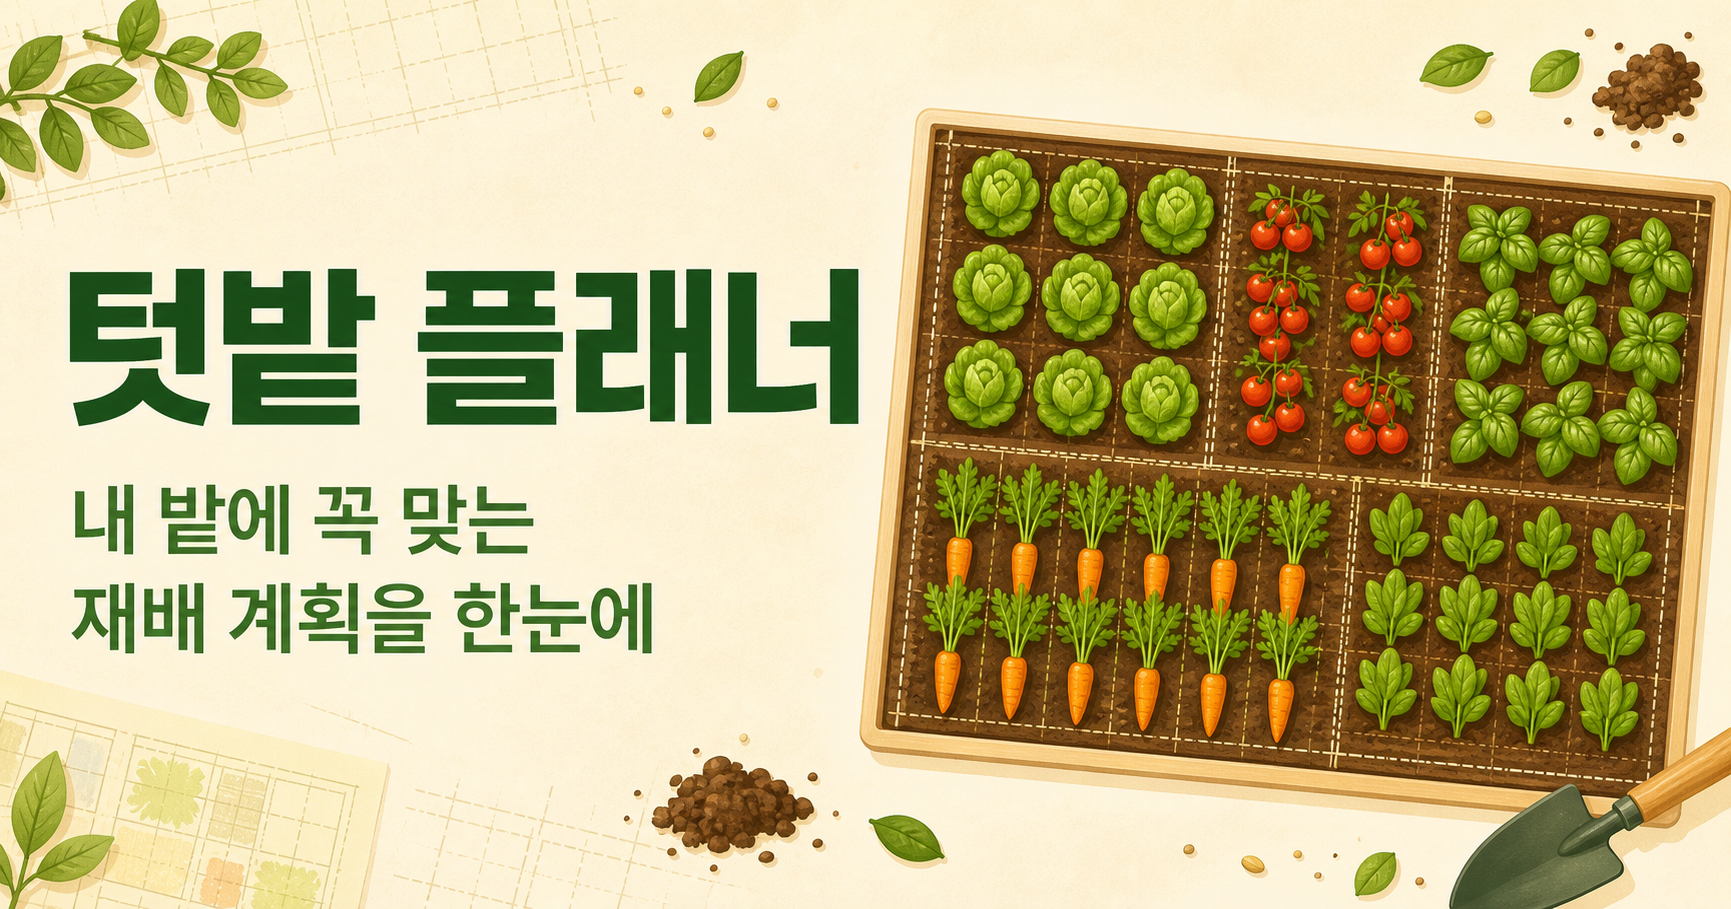
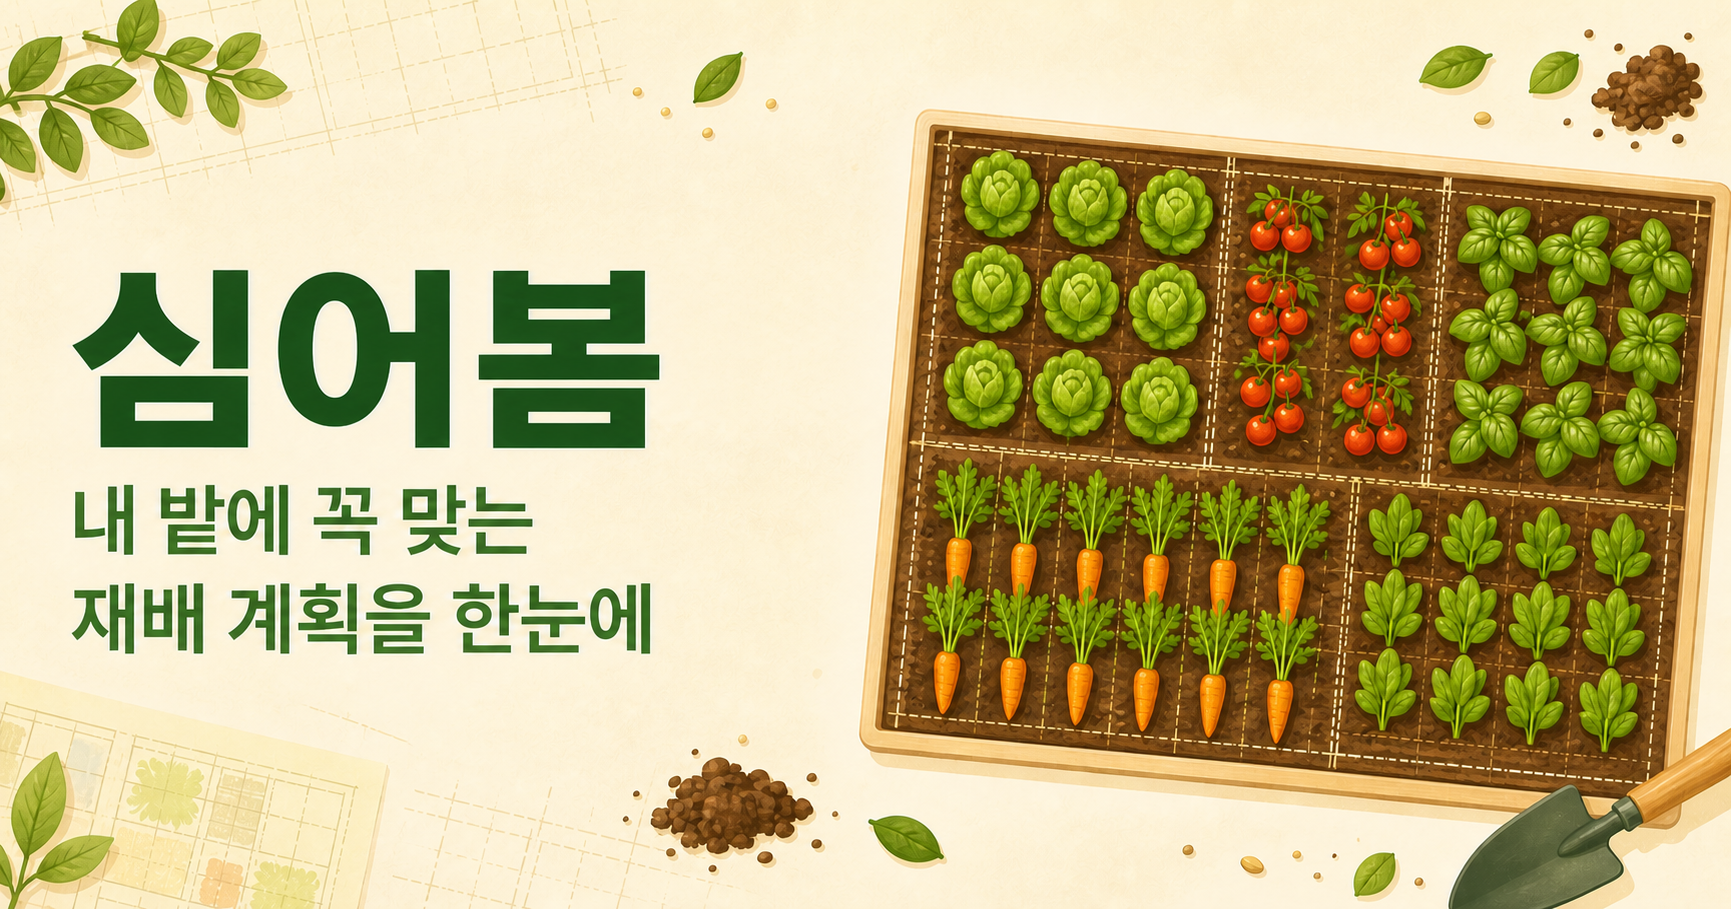
수정: 서비스명을 심어봄으로 변경
랜딩 페이지와 메타데이터, 공유 이미지를 새 서비스명으로 통일했습니다.
플래너 미리보기의 수량 및 검증 정보를 카드 내부로 이동해 겹침 문제를 수정했습니다.

diff --git a/frontend/components/landing/planner-preview.tsx b/frontend/components/landing/planner-preview.tsx
@@ -10,11 +10,6 @@ const gardenCells = [
 export function PlannerPreview() {
   return (
     <div id="planner" className="relative mx-auto w-full max-w-2xl scroll-mt-24">
-      <div className="absolute -left-8 top-12 hidden rounded-2xl border border-white/80 bg-white/85 p-4 shadow-xl backdrop-blur sm:block">
-        <p className="text-xs font-semibold text-muted">예상 재배 수량</p>
-        <p className="mt-1 text-2xl font-bold text-leaf">32포기</p>
-      </div>
-
       <div className="overflow-hidden rounded-[2rem] border border-white/80 bg-paper shadow-[0_30px_80px_rgba(45,65,44,0.16)]">
         <div className="flex items-center justify-between border-b border-ink/8 px-5 py-4 sm:px-7">
           <div>
@@ -45,25 +40,32 @@ export function PlannerPreview() {
           </div>
         </div>
 
-        <div className="grid grid-cols-3 border-t border-ink/8 bg-white/70 px-4 py-4 text-center">
+        <div className="flex items-start gap-3 border-t border-[#efd49b] bg-[#fff8e7] px-5 py-3.5 text-[#8b5b18] sm:px-7">
+          <span className="mt-0.5 text-sm" aria-hidden="true">✓</span>
+          <div>
+            <p className="text-xs font-bold">간격 검사를 완료했어요</p>
+            <p className="mt-0.5 text-[11px] text-[#98713d]">현재 배치에서 위험 요소가 없어요.</p>
+          </div>
+        </div>
+
+        <div className="grid grid-cols-2 border-t border-ink/8 bg-white/70 px-4 py-4 text-center sm:grid-cols-4">
           <div>
             <p className="text-[11px] text-muted">밭 크기</p>
             <p className="mt-1 text-sm font-bold">4m × 3m</p>
           </div>
-          <div className="border-x border-ink/8">
+          <div className="border-l border-ink/8">
             <p className="text-[11px] text-muted">선택 작물</p>
             <p className="mt-1 text-sm font-bold">4종</p>
           </div>
-          <div>
+          <div className="mt-4 border-r border-ink/8 pt-4 sm:mt-0 sm:border-l sm:pt-0">
+            <p className="text-[11px] text-muted">예상 수량</p>
+            <p className="mt-1 text-sm font-bold">32포기</p>
+          </div>
+          <div className="mt-4 pt-4 sm:mt-0 sm:pt-0">
             <p className="text-[11px] text-muted">배치 상태</p>
             <p className="mt-1 text-sm font-bold text-leaf">적합</p>
           </div>
         </div>
-      </div>
-
-      <div className="absolute -bottom-7 -right-3 rounded-2xl border border-[#f1d7a2] bg-[#fff8e7] p-4 shadow-xl sm:right-6">
-        <p className="text-xs font-bold text-[#8b5b18]">간격 검사를 완료했어요</p>
-        <p className="mt-1 text-[11px] text-[#98713d]">현재 배치에서 위험 요소가 없어요.</p>
       </div>
     </div>
   );

diff --git a/frontend/app/layout.tsx b/frontend/app/layout.tsx
@@ -8,11 +8,11 @@ const geist = Geist({
 });
 
 export const metadata: Metadata = {
-  title: "텃밭 플래너 | 내 밭에 맞는 재배 계획",
+  title: "심어봄 | 내 밭에 맞는 재배 계획",
   description:
     "밭 크기와 작물을 입력하면 배치 수량, 간격 경고, 재배 일정을 만들어주는 한국형 텃밭 계획 도구입니다.",
   openGraph: {
-    title: "텃밭 플래너 | 내 밭에 맞는 재배 계획",
+    title: "심어봄 | 내 밭에 맞는 재배 계획",
     description:
       "밭 크기와 작물을 입력하면 배치 수량, 간격 경고, 재배 일정을 한눈에 확인할 수 있어요.",
     locale: "ko_KR",
@@ -20,7 +20,7 @@ export const metadata: Metadata = {
   },
   twitter: {
     card: "summary_large_image",
-    title: "텃밭 플래너 | 내 밭에 맞는 재배 계획",
+    title: "심어봄 | 내 밭에 맞는 재배 계획",
     description: "내 밭에 꼭 맞는 재배 계획을 한눈에 확인하세요.",
   },
 };

diff --git a/frontend/components/landing/site-header.tsx b/frontend/components/landing/site-header.tsx
@@ -10,9 +10,9 @@ export function SiteHeader() {
   return (
     <header className="relative z-20 border-b border-ink/8 bg-cream/85 backdrop-blur-xl">
       <div className="mx-auto flex h-18 max-w-7xl items-center justify-between px-5 sm:px-8 lg:px-12">
-        <a className="flex items-center gap-3 font-bold tracking-[-0.02em]" href="#top" aria-label="텃밭 플래너 홈">
+        <a className="flex items-center gap-3 font-bold tracking-[-0.02em]" href="#top" aria-label="심어봄 홈">
           <BrandMark />
-          <span className="text-lg">텃밭 플래너</span>
+          <span className="text-lg">심어봄</span>
         </a>
 
         <nav className="hidden items-center gap-8 text-sm font-semibold text-muted md:flex" aria-label="주요 메뉴">

diff --git a/frontend/components/landing/crop-highlights.tsx b/frontend/components/landing/crop-highlights.tsx
@@ -51,7 +51,7 @@ export function CropHighlights() {
         </div>
 
         <footer className="mt-16 flex flex-col gap-4 border-t border-ink/10 pt-8 text-sm text-muted sm:flex-row sm:items-center sm:justify-between">
-          <p className="font-bold text-ink">텃밭 플래너</p>
+          <p className="font-bold text-ink">심어봄</p>
           <p>공식 자료의 일반 기준을 바탕으로 계획을 돕는 시뮬레이션 서비스입니다.</p>
         </footer>
       </div>

diff --git a/frontend/app/page.tsx b/frontend/app/page.tsx
@@ -5,7 +5,7 @@ import { SiteHeader } from "@/components/landing/site-header";
 
 export default function Home() {
   return (
-    <div className="min-h-screen overflow-hidden bg-cream text-ink">
+    <div id="top" className="min-h-screen overflow-hidden bg-cream text-ink">
       <SiteHeader />
 
       <main>
